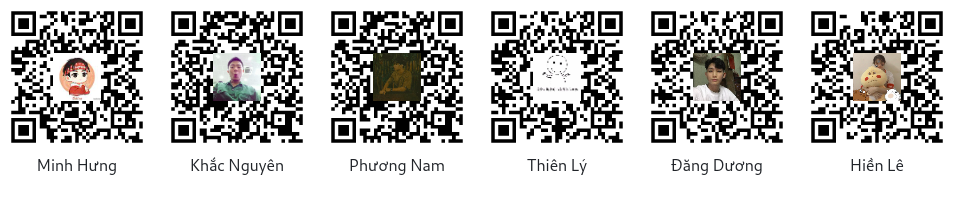
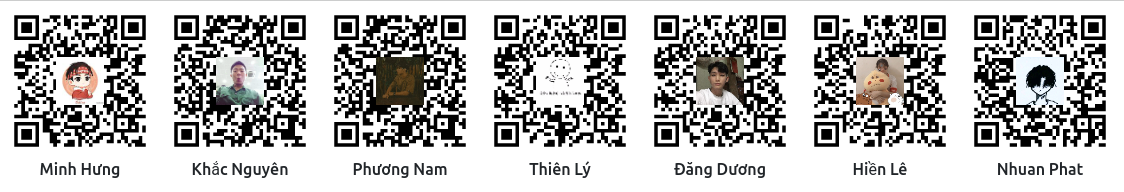
Add LeNhuanPhat image

diff --git a/src/_mock_/users.js b/src/_mock_/users.js
@@ -59,6 +59,16 @@ const users = [
     hometown: "Hoằng Hóa - Thanh Hóa",
     link: "https://users-qr-code.netlify.app/users/6",
   },
+  {
+    id: 7,
+    image: "/LeNhuanPhat.jpg",
+    name: "Nhuan Phat",
+    fullName: "Le Nhuan Phat",
+    sub_title: "ʚ Dame ɞ",
+    university: "Ha Noi",
+    hometown: "Thọ Xuân - Thanh Hóa",
+    link: "https://users-qr-code.netlify.app/users/7",
+  },
 ];
 
 export { users };
